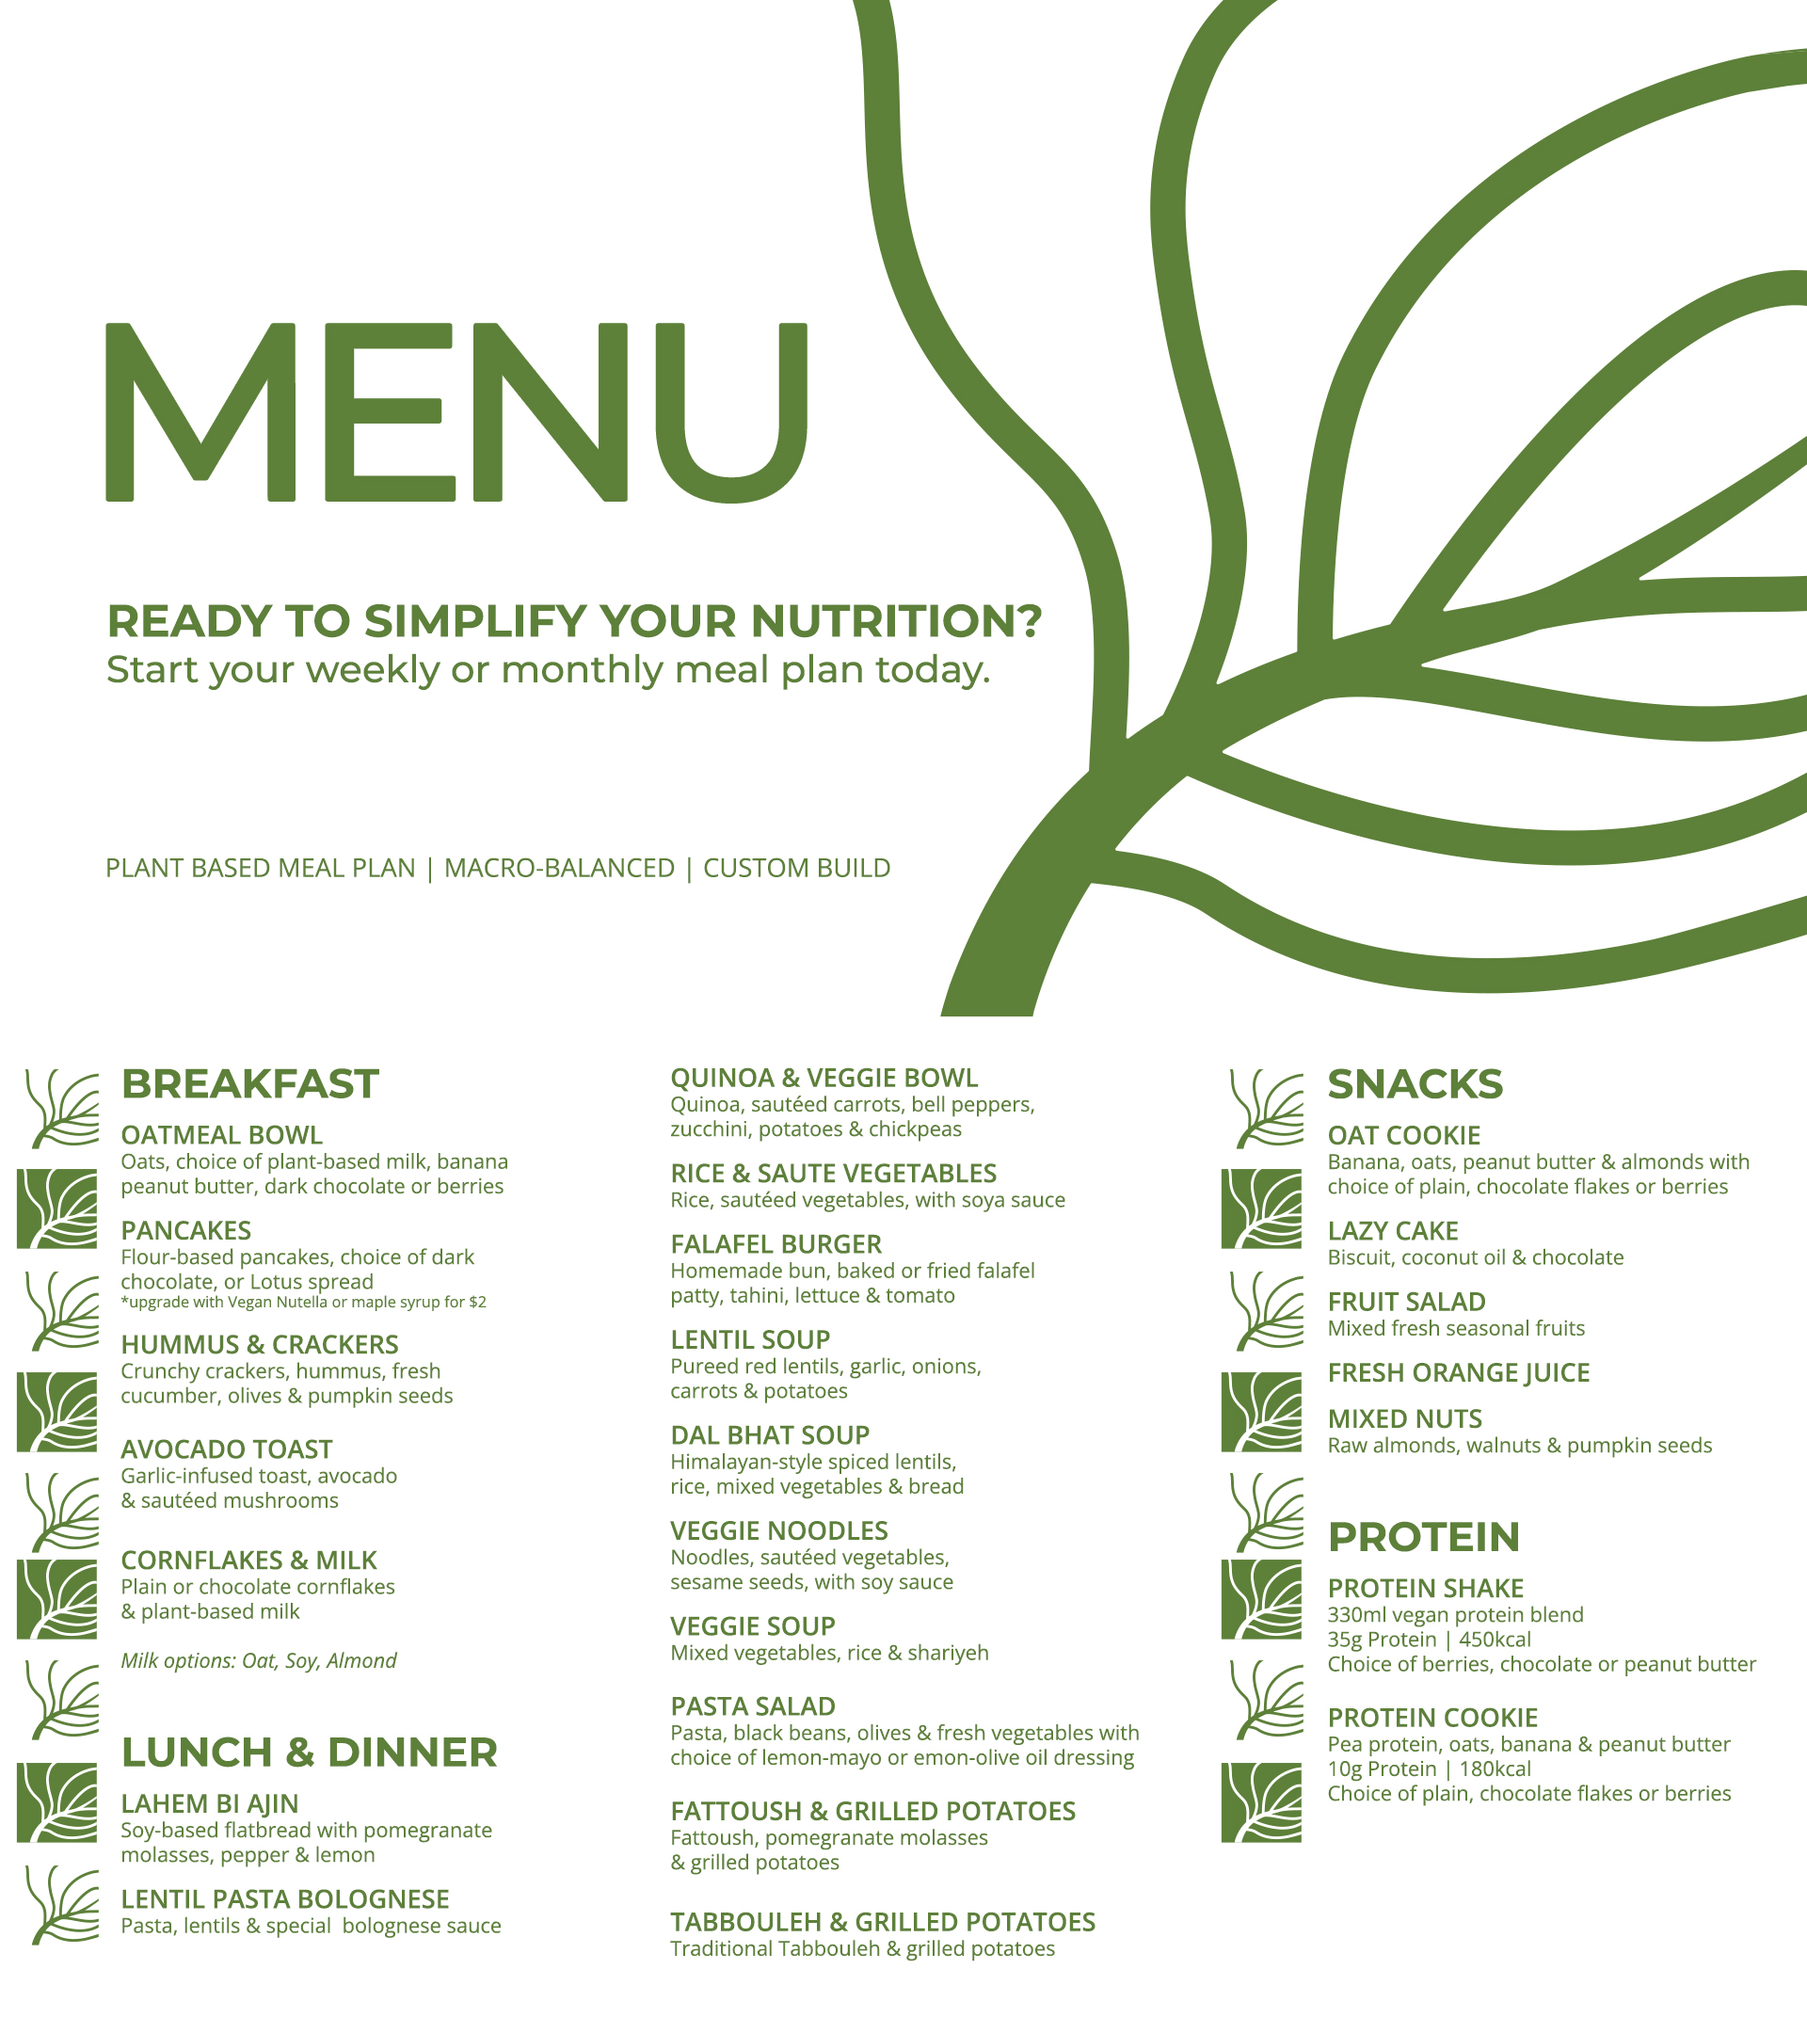
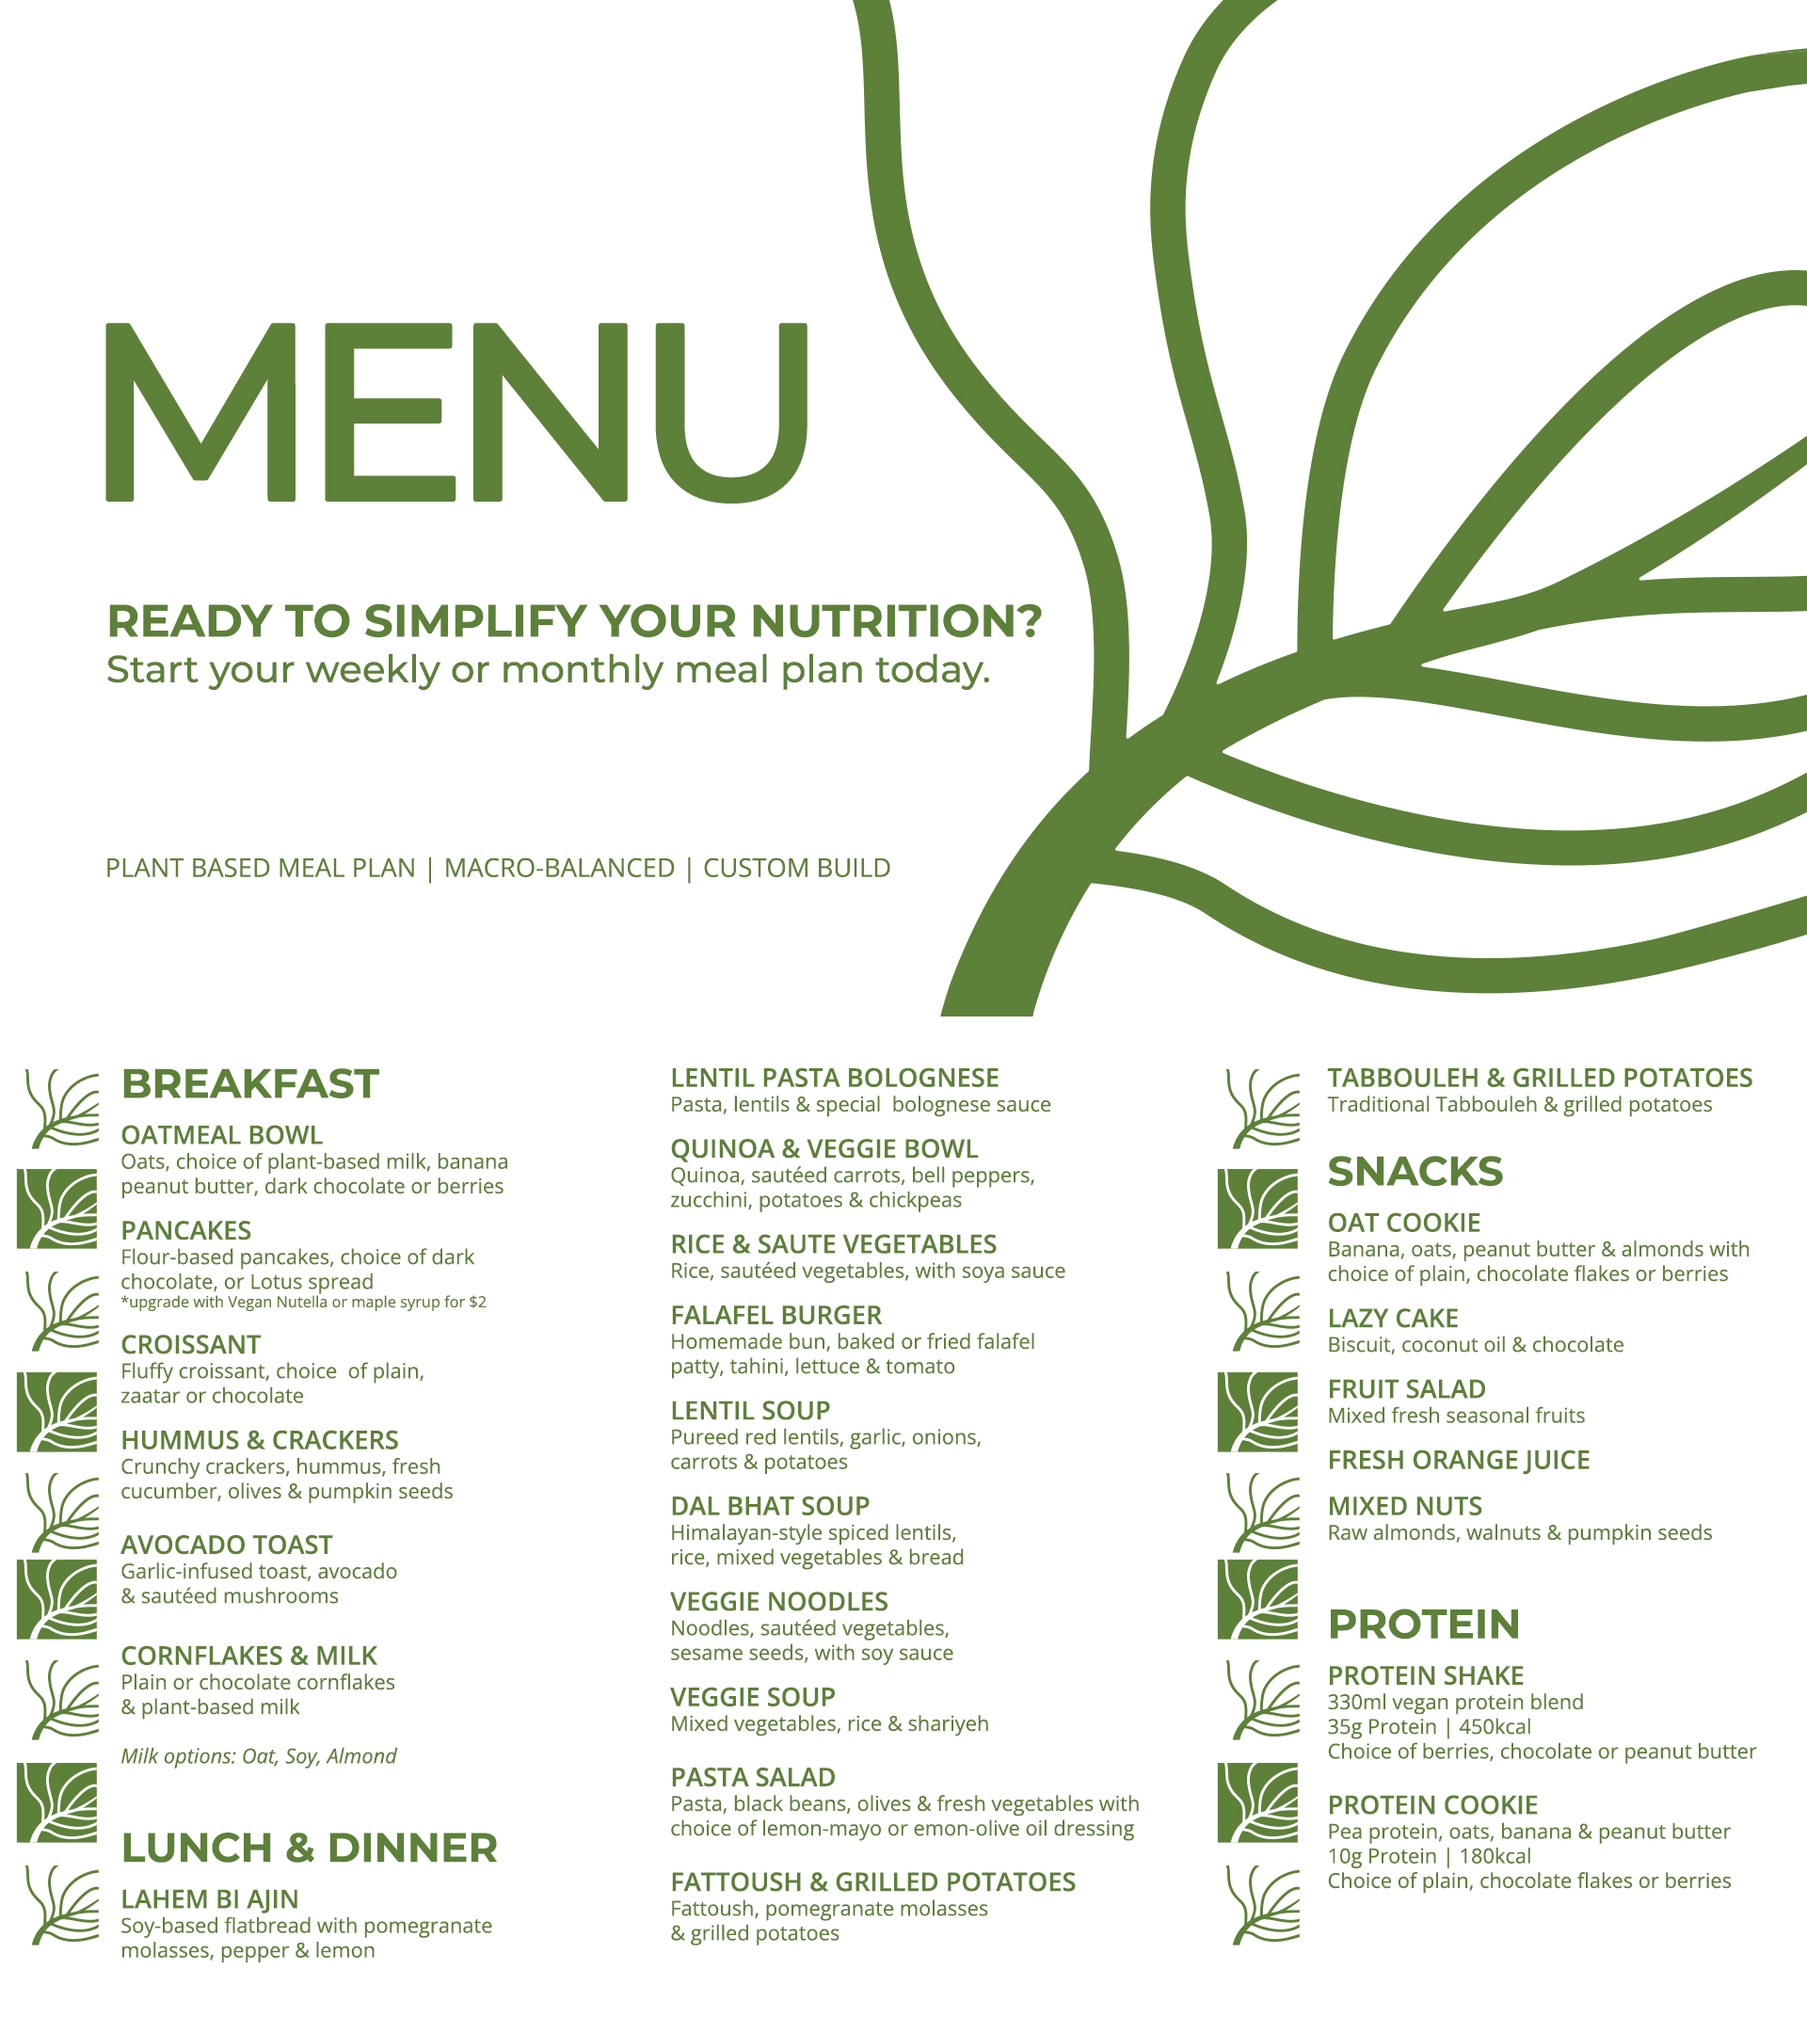
Croissant

diff --git a/menu-data.js b/menu-data.js
@@ -47,6 +47,17 @@ const rawMenuData = [
         removable_ingredients: "Sautéed Mushrooms;Herbs", 
         choice_title: "", choice_options: "", choice_type: "", choice_title_2: "", choice_options_2: "", choice_type_2: "" 
     },
+        { 
+        category: "breakfast", 
+        name: "Croissant", 
+        protein: 5, 
+        image: "images/menu items/Croissant.png",
+        fixed_ingredients: "Croissant dough", 
+        removable_ingredients: "", 
+        choice_title: "Filling", 
+        choice_options: "Plain;Chocolat;Zaatar", 
+        choice_type: "", choice_title_2: "", choice_options_2: "", choice_type_2: "" 
+    },
     { 
         category: "breakfast", 
         name: "Cornflakes & Milk", 
@@ -209,7 +220,8 @@ const rawMenuData = [
         fixed_ingredients: "Almonds;Pumpkin Seeds;Wallnuts;Raisin", 
         removable_ingredients: "", 
         choice_title: "", choice_options: "", choice_type: "", choice_title_2: "", choice_options_2: "", choice_type_2: "" 
-    },
+    }, 
+
 
     // --- PROTEIN ---
     { 
